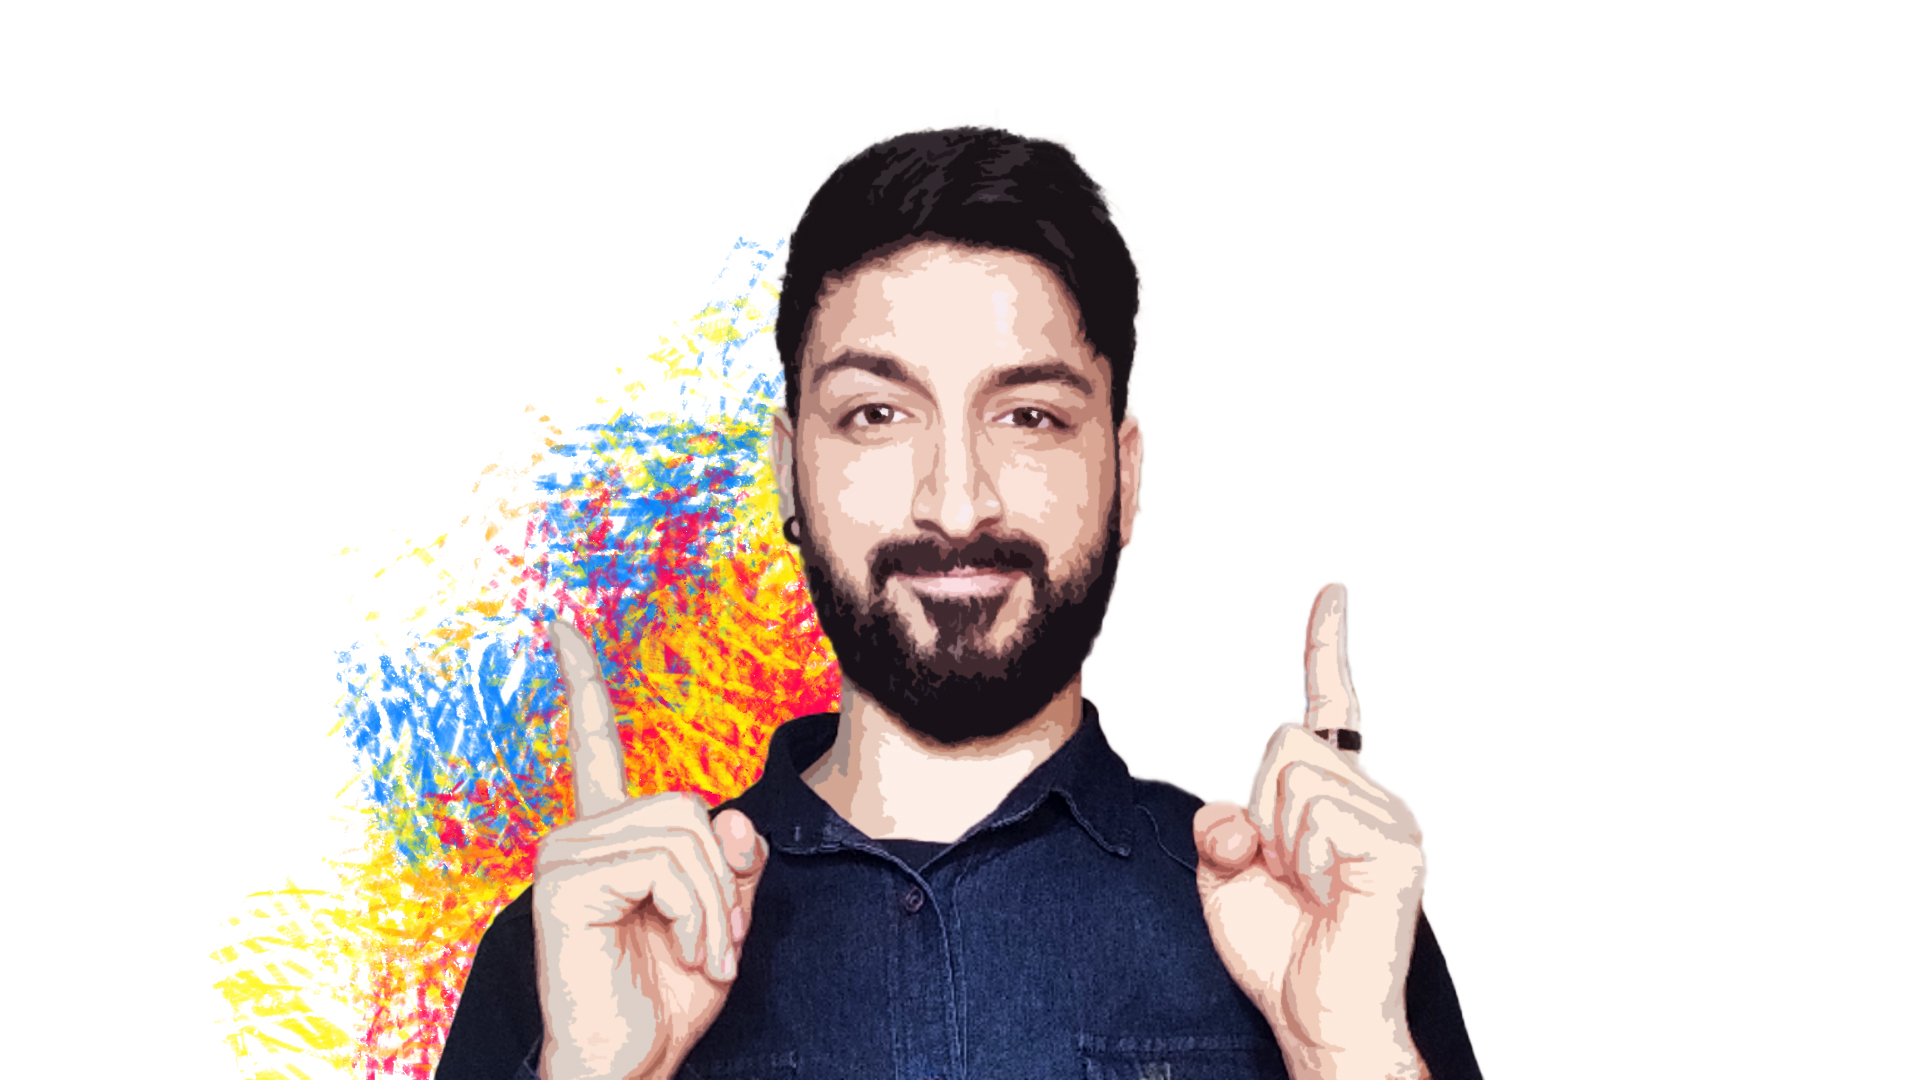
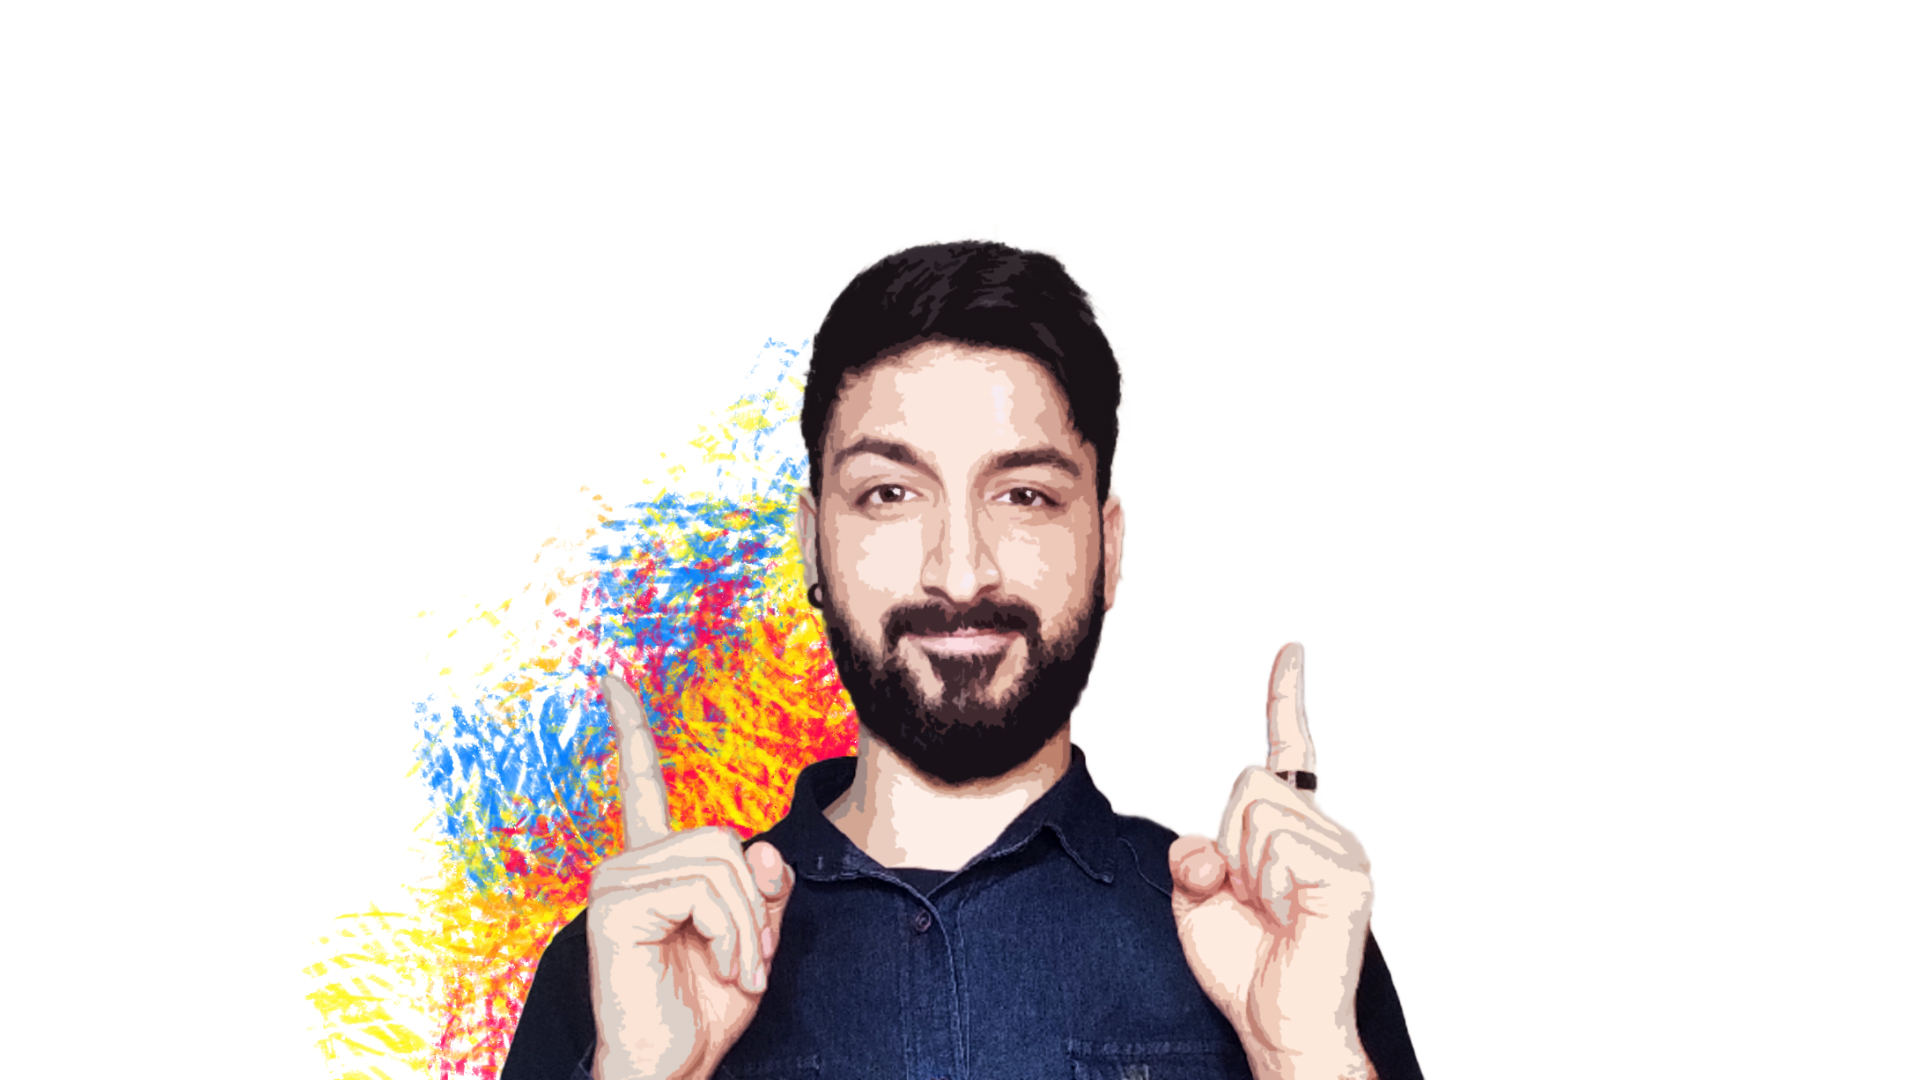
feat: correzioni varie ai testi e changes delle immagini dell'homepage

Changed region(s): [[0.0938, 0.0917, 0.7812, 1.0]]

diff --git a/src/components/about-page-components/questionAndAnswers.vue b/src/components/about-page-components/questionAndAnswers.vue
@@ -44,24 +44,25 @@ export default {
             <div class="accordion-body">
               Come detto, sono "nato" artista. In realtà il mio rapporto con il
               mondo videoludico, ha contribuito a ispirarmi in un percorso come
-              disegnatore. Dopo anni a studiare come autodidatta, capii che non
-              era una cosa che avrei voluto fare come lavoro. Intanto, essendo
-              diplomato come Grafico Pubblicitario, dopo qualche anno al termine
-              della scuola, ho potuto lavorare in un negozio di Grafica. Con i
-              soldi che guadagnavo, pagavo dei corsi Online per migliorare le
-              mie capacità. La mattina studiavo, il pomeriggio andavo al lavoro
-              e col tempo ho imparato tante cose ma nel mentre anche il mondo
-              della Grafica cambiava. Realizzai che solo con la Grafica, non
-              sarei andato lontano e un giorno, casualmente, scoprii di Boolean,
-              un corso in Full-Stack Web-Developer intensivo di 6 mesi. A primo
-              acchito, non era facile ricominciare qualcosa da 0, ma non sapevo
-              che sarebbe stata la scelta migliore non solo a livello
-              lavorativo, ma anche per i bisogni della mia persona. Pur non
-              sapendo nulla di programmazione, decisi di fare le prime 20 ore
-              gratuite e al termine, decisi di iscrivermi. Dopo 6 mesi, pieni di
-              sacrifici, impegno, dedizione e perseveranza, eccomi, sono un
-              Junior Full-Stack Web Developer che da 0 ha imparato tanto e ha
-              ancora molto da imparare 😁.
+              disegnatore. Dopo anni di studio da autodidatta, capii che non era
+              una cosa che avrei voluto fare come lavoro ma come hobby. Intanto,
+              essendo diplomato come Grafico Pubblicitario, dopo qualche anno al
+              termine della scuola, ho potuto lavorare in un negozio di Grafica.
+              Con i soldi che guadagnavo, pagavo dei corsi Online per migliorare
+              le mie capacità. La mattina studiavo, il pomeriggio andavo al
+              lavoro e col tempo ho imparato tante cose ma nel mentre anche il
+              mondo della Grafica cambiava. Realizzai che solo con la Grafica,
+              non sarei andato lontano e un giorno, casualmente, scoprii
+              Boolean, un corso in Full-Stack Web-Developer intensivo di 6 mesi.
+              A primo acchito, il pensiero di cominciare un nuovo percorso da 0
+              mi intimoriva, ma non sapevo che sarebbe stata la scelta migliore
+              non solo a livello lavorativo, ma anche per i bisogni della mia
+              persona. Pur non sapendo nulla di programmazione, decisi di fare
+              le prime 20 ore gratuite e al termine, essendo stupito di quante
+              similitudinici ci fossero col mio percorso di grafico, decisi di
+              iscrivermi. Dopo 6 mesi, pieni di sacrifici, impegno, dedizione e
+              perseveranza, eccomi, sono un Junior Full-Stack Web Developer che
+              da 0 ha imparato tanto e ha ancora molto da imparare 😁.
             </div>
           </div>
         </div>
@@ -75,7 +76,7 @@ export default {
               aria-expanded="false"
               aria-controls="collapseTwo"
             >
-              Si, ok. Sono un Web Developer, ma cosa mi motiva a continuare?
+              Si, sono un Web Developer, ma cosa mi motiva a continuare?
             </button>
           </h2>
           <div
@@ -87,7 +88,7 @@ export default {
               Diventare un Web Developer per me ha significato tante cose. Prima
               di tutto, avere un vero mestiere tra le mani, ma cosa più
               importante, mi ha permesso di unire tutti i miei "mondi". La
-              fantasia e le mia bilità nel disegno, le mie conoscenze sul
+              fantasia e le mia abilità nel disegno, le mie conoscenze sul
               graphic design unite al metodo e alla logica, al pensiero astratto
               che si deve avere in programmazione. Perché contino? <br />
               Perché quando inizio a scrivere codice al mattino alle 8:30, senza
@@ -97,7 +98,8 @@ export default {
               la nostra passione. Per me non è solo una questione di lavoro o di
               soldi, ma anche di definirmi come persona e di fare qualcosa che
               mi faccia stare bene con me stesso e che mi dia soddisfazioni e
-              onestamente, quanto mi diverto a fare Front-End!!
+              onestamente, quanto mi diverto a fare Front-End! Ma anche il
+              Back-End ha le sue sfaccettature eh!
             </div>
           </div>
         </div>
@@ -120,10 +122,13 @@ export default {
             data-bs-parent="#accordionExample"
           >
             <div class="accordion-body">
-              Il mio obbiettivo a breve termine, attualmente, è trasferirmi al
-              nord italia e lavorare in un contesto positivo dove si stia bene.
-              Dove ci sia la possibilità di lavorare con altre persone,
-              confrontarsi, crescere, migliorare ed essere formati.
+              Il mio obbiettivo a breve termine, è trasferirmi al nord italia e
+              lavorare in un contesto positivo dove si stia bene. Dove ci sia la
+              possibilità di lavorare con altre persone, confrontarsi, crescere,
+              migliorare ed essere formati. Dove si dà valore all'impegno e ci
+              sia una forma di meritocrazia! Un ambiente di lavoro, dove si
+              lavora con gli altri in armonia, sostenendo non solo i propri
+              valori ma anche quelli del progetto per cui si lavora.
             </div>
           </div>
         </div>
@@ -179,11 +184,12 @@ export default {
             data-bs-parent="#accordionExample"
           >
             <div class="accordion-body">
-              Ormai la maggior parte di quello che faccio è inglese. Dai corsi
-              di apprendimento su Udemy, alla documentazione online, persino gli
-              hobby come videogames e film o la lettura e la musica. Ecco perché
-              il mio sito portfolio è sbadatamente metà italiano e metà in
-              inglese! A leggere e comprendere, me la cavo molto bene.
+              Ormai la maggior parte di quello che faccio da anni è in inglese.
+              Dai corsi di apprendimento e formazione su Udemy, alla
+              documentazione online, persino gli hobby come videogames e film o
+              la lettura e la musica. Ecco perché il mio sito portfolio è
+              sbadatamente metà italiano e metà in inglese! Sono fluente nella
+              lettura e nella compresione.
             </div>
           </div>
         </div>
@@ -235,17 +241,18 @@ export default {
             data-bs-parent="#accordionExample"
           >
             <div class="accordion-body">
-              Sono cresciuto in un ambiente dove ho imparato a gestire lo
-              stress, soprattutto al lavoro e con le persone che mi circondano.
-              Fare programmazione a volte può essere senza dubbio frustrante e
-              stressante, ma credo anche che facciano la differenza il "dove" e
-              "con chi". Io affronto la programmazione esattamente come la vita.
-              La vita è fatta anche di pensieri, azioni, reazioni e problemi.
+              Sono cresciuto in un ambiente dove ho imparato a mie spese a
+              gestire lo stress, soprattutto al lavoro e con le persone che mi
+              circondano. Fare programmazione a volte può essere senza dubbio
+              frustrante e stressante, ma credo anche che facciano la differenza
+              il "dove" e "con chi". Io affronto la programmazione esattamente
+              come la vita. La vita è fatta anche di pensieri, azioni, reazioni
+              e problemi.
               <br />
               <em
-                >A volte nella vita dobbiamo soltanto fare un console.log(vita)
+                >A volte nella vita dobbiamo fare soltanto un console.log(life)
                 capire bene quali sono i problemi, dividerli in piccoli passi e
-                percorrene uno alla volta.
+                farne uno alla volta.
               </em>
             </div>
           </div>
@@ -269,11 +276,11 @@ export default {
             data-bs-parent="#accordionExample"
           >
             <div class="accordion-body">
-              Il sito portfolio è stato fatto con Vue + Vite, col tempo farò
-              migliorie, ottimizzazioni e un pò di refactoring del codice! Le
-              grafiche e le immagini sono state fatte da me. Lo stesso vale per
-              Mokujin di Tekken (il burattino nella sezione Altro su di me) che
-              realizzai tempo fa su Blender!
+              Il sito portfolio è stato fatto con Vue.js + Vite e Bootstrap, col
+              tempo farò migliorie, ottimizzazioni e un pò di refactoring del
+              codice! Le grafiche e le immagini sono state realizzate da me. Lo
+              stesso vale per Mokujin di Tekken (il burattino nella sezione
+              Altro su di me) che realizzai tempo fa su Blender!
             </div>
           </div>
         </div>

diff --git a/src/components/portfolio-page-components/projects-pages/frontEndAdvanced.vue b/src/components/portfolio-page-components/projects-pages/frontEndAdvanced.vue
@@ -16,16 +16,16 @@ export default {
       },
       project: {
         objParagraph:
-          "Durante il percorso in Boolean, dopo HTML e CSS abbiamo studiato Java Script e un framework ad esso associato, come Vue.js e Vite (a sostegno di Vue). \
+          "Durante il percorso in Boolean, dopo HTML e CSS abbiamo studiato Java Script e un framework ad esso associato, Vue.js e Vite (a sostegno di Vue). \
         Con JavaScript, abbiamo potuto rendere reattivi e animati i nostri progetti, con Vue, ottimizzare il codice e con Vite, creare una struttura di scaffolding più pulita e intuitiva e personalmente\
         ho adorato lavorare con Vue + Vite, motivo per il quale ho realizzato con queste tecnologie il Portfolio. Infine abbiamo anche utilizzato, Axios per effettuare le chiamate API.",
         functionsParagraph:
           "Il primo progetto è un carosello ispirato a quello di Playstation basato sull'indicizzazione dei vari elementi, eventi al click che spostano l'indice da un elemento all'altro, rilevando e mostrando l'immagine attualmente\
           selezionata e come extra un setTime che fà scorrere le immagini fin tanto che l'utente non sia in hover su quella 'grande' che fermerà il setTime fin tanto che il cursone rimanga al suo interno.\
-          Il secondo progetto è una riproduzione di Whats App, dove c'è la possibilità filtrare ogni utente nella nostra chat e dove ogni utente, ha una sua chat popolata di messaggi\
+          Il secondo progetto è una riproduzione di Whats App, dove c'è la possibilità di filtrare ogni utente nella nostra chat e dove ogni utente, ha una sua chat popolata di messaggi\
           che possono anche essere eliminati. Scrivendo e inviando un messaggio, si riceve persino una risposta automatizzata!\
           Il terzo progetto è ispirato a un ipotetica Home-page del sito DC-Comics, dove tramite chiamata API con axios, riceviamo un oggetto di vari comics\
-          da utilizzare per popolare il nostro 'negozio'. Cito un app particolarmente utile 'postman' che ci è stata utile per verificare la struttura dei dati API.\
+          da utilizzare per popolare il nostro 'negozio'. Cito un app particolarmente utile, 'postman' ,che abbiamo utilizzato per verificare la struttura dei dati API.\
           Molto simile anche il quarto progetto, ispirato a Yu-Gi-Oh! dove semplicemente tramite chiamata API riceviamo tutte le carte esistenti e tramite filtro, possiamo risalire\
           alla tipologia di nostro interesse e ottenere anche un risultato che conta quante carte sono state trovate.\
           Per concludere, con gli stessi principi, una riproduzione di Netflix (Boolflix), dove tramite chiamata API riceviamo sia Serie TV che Film, questi, dopo la ricerca, appaiono e\

diff --git a/src/components/portfolio-page-components/projects-pages/deliveboo.vue b/src/components/portfolio-page-components/projects-pages/deliveboo.vue
@@ -21,9 +21,9 @@ export default {
           L'obbiettivo del progetto è stato quello di realizzare un app simile a Deliveroo, con un lato Back-Office, dove il ristoratore\
           potesse registrarsi, creare il suo ristorante e ad esso, associare pietanze e ordinazioni. Lato Front-office invece l'utente può\
           ordinare le pietanze da un ristorante per volta, filtrando per tipologia, e una volta inseriti i prodotti nel carrello, procedere con il\
-          pagamento. Tra i vari obbiettivi tecnici, infine, l'organizzazione, il lavoro di squadra, il rispetto altrui ma soprattutto la condivisione\
-          l'inpegno e la testardaggine nonchè le capacità specifiche dei membri del team, hanno reso possibile la realizzazione di questo progetto. Imparare\
-          a lottare anche quando sembra impossibile e superare la frustrazione con l'impegno e la determinazione.",
+          pagamento. Oltre gli obbiettivi tecnici infine, l'organizzazione, il lavoro di squadra, il rispetto altrui ma soprattutto la condivisione\
+         e la testardaggine nonchè le capacità specifiche dei membri del team, hanno reso possibile la realizzazione di questo progetto. Imparare\
+          a lottare anche quando sembra impossibile e superare la frustrazione con impegno e determinazione.",
         functionsParagraph:
           "Per questo progetto, ho realizzato un video dove spiego in effetti come funziona l'applicazione ma riassumo anche testualmente\
           tutte le sue funzionalità. Il progetto è diviso in due grandi parti, un back-office e un front-office.\
@@ -36,7 +36,7 @@ export default {
           Lato Front-Office, l'utente può visualizzare, filtrare  e visitare i vari ristoranti. Di ogni ristorante, può visualizzare e ordinare i piatti\
           senza limiti di quantità, ma con la restrizione di ordinare da un solo ristorante per volta e procedere al pagamento o in caso di\
           ripensamenti, svuotare il carrello.\ All'interno del progetto sono anche stati presi provvedimenti: tutti i form sono protetti da validazione e restrizioni,\
-          in caso di errore, l'utente verrà avvisato. Altri ristoratori non possono visitare tramite la barra di ricerca altri ristoratori e ci sono dei blocchi di protezione\
+          in caso di errore, l'utente verrà avvisato. Utenti o 'esterni' non possono visitare tramite la barra di ricerca altri ristoratori e ci sono dei blocchi di protezione\
           affiché i dati che devono rimanere anonimi, lo siano. Infine, l'app, sia front che back è responsive e quindi, godibile da ogni dispositivo.",
         videoPath: "../../../../public/images/Deliveboo/deliveboo.mp4",
       },

diff --git a/src/components/portfolio-page-components/worksContainer.vue b/src/components/portfolio-page-components/worksContainer.vue
@@ -16,21 +16,21 @@ export default {
           projectImage:
             "../../../public/images/Front-End-Advanced/cover-projects-front-advanced.png",
           projectTitle: "Front-End-Advaced",
-          projectDescription: "HTML, CSS, JS, Vue + Vite, API",
+          projectDescription: "HTML, CSS, Js, Vue + Vite, API",
           projectRoute: "frontEndAdvanced",
         },
         {
           projectImage:
             "../../../public/images/Front-End-Advanced/cover-projects-anidio.png",
           projectTitle: "Anidio",
-          projectDescription: "HTML, CSS, JS, VUE + VITE",
+          projectDescription: "HTML, CSS, Js, Vue + Vite",
           projectRoute: "anidio",
         },
         {
           projectImage:
             "../../../public/images/Deliveboo/cover-project-deliveboo.png",
           projectTitle: "DeliveBoo",
-          projectDescription: "Front-End - Back-End",
+          projectDescription: "Front-End (Vue), Back-End (Laravel)",
           projectRoute: "deliveboo",
         },
       ],
@@ -51,10 +51,7 @@ export default {
       <p class="text-center">
         Nota Bene: tutte le immagini, loghi, riferimenti, fonts, sono solo a
         scopo di studio e non commerciale! <br />
-        Altri lavori verrano caricati in futuro! <br />
-        Per navigare i progetti, cliccare sulla freccia che appare sulle card!
-        Per tornare indietro, al momento, cliccare su
-        <strong>portfolio</strong> in alto o in basso!
+        Altri lavori verrano caricati in futuro!
       </p>
       <div class="row">
         <div

diff --git a/src/components/portfolio-page-components/projects-pages/frontEndBegin.vue b/src/components/portfolio-page-components/projects-pages/frontEndBegin.vue
@@ -26,7 +26,7 @@ export default {
         il capolinea prima del progetto 'finale' legato al Front-End che troverete nella sua apposita sezione.",
         functionsParagraph:
           "Si comincia dal prototipo di Zalando, ove il focus dell'esercizio è stato quello di creare un effetto hover legato ai prodotti, \
-        l'utilizzo del 'position' e ovviamente la struttura della pagina web base. A seguire, app come Discord, Zoom e Dropbox (non presente in video), per far pratica con Flex\
+        l'utilizzo del 'position' e ovviamente la struttura della pagina web base. A seguire, layout di Discord, Zoom e Dropbox (non presente in video), per far pratica con Flex\
         e creare layout complessi. In conclusione, un layout ispirato proprio a Boolean realizzato con Bootstrap e l'interfaccia di Spotify\
         svolta per scelta solo in HTML e CSS e l'utilizzo di media Query realizzate da 0 il cui focus era proprio creare app responsive con menù ed elementi a scomparsa.",
         videoPath:

diff --git a/src/components/ui-element/card.vue b/src/components/ui-element/card.vue
@@ -14,21 +14,26 @@ export default {
 </script>
 
 <template>
-  <div class="card">
-    <img :src="cardImage" alt="" />
-    <div class="card-contents">
-      <div class="card-text">
-        <h3>{{ cardTitle }}</h3>
-        <span>{{ cardDescription }}</span>
+  <router-link :to="cardRoute" class="router-card">
+    <div class="card">
+      <img :src="cardImage" alt="" />
+      <div class="card-contents">
+        <div class="card-text">
+          <h3>{{ cardTitle }}</h3>
+          <span>{{ cardDescription }}</span>
+        </div>
+        <router-link :to="cardRoute" class="router-card"
+          ><button class="btn">></button></router-link
+        >
       </div>
-      <router-link :to="cardRoute" class="router-card"
-        ><button class="btn">></button></router-link
-      >
     </div>
-  </div>
+  </router-link>
 </template>
 
 <style lang="scss" scoped>
+.router-card {
+  text-decoration: none;
+}
 .card {
   margin: 30px 15px;
   padding: 10px;

diff --git a/src/components/about-page-components/aboutMeSkills.vue b/src/components/about-page-components/aboutMeSkills.vue
@@ -12,7 +12,7 @@ export default {
       ],
       developerSkillsTitle: "Coder 👨🏻💻",
       developerSkills: [
-        "Full-Stack developer",
+        "Full-Stack Web Developer",
         "Front-End Addict",
         "HTML / CSS",
         "Java Script Souls Like",
